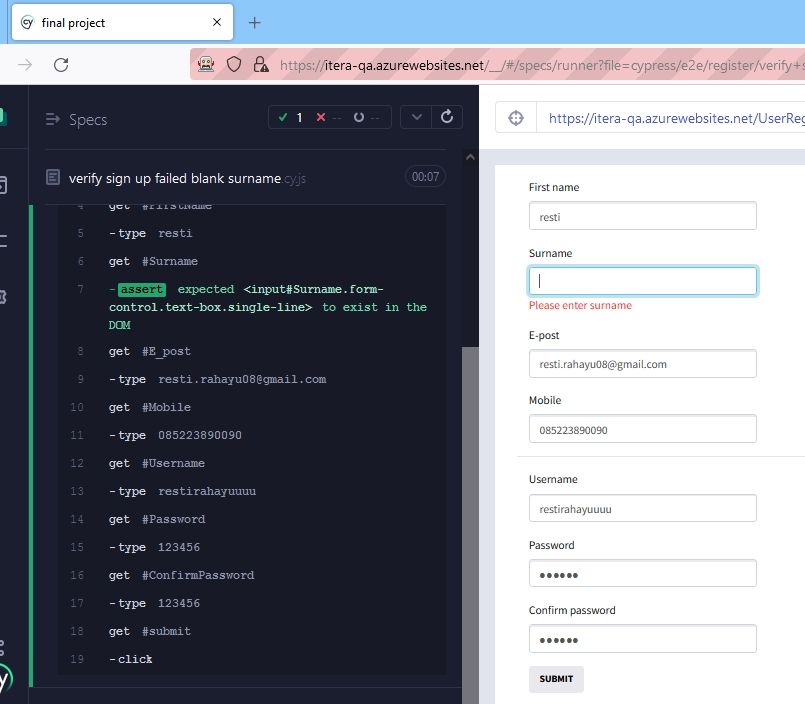
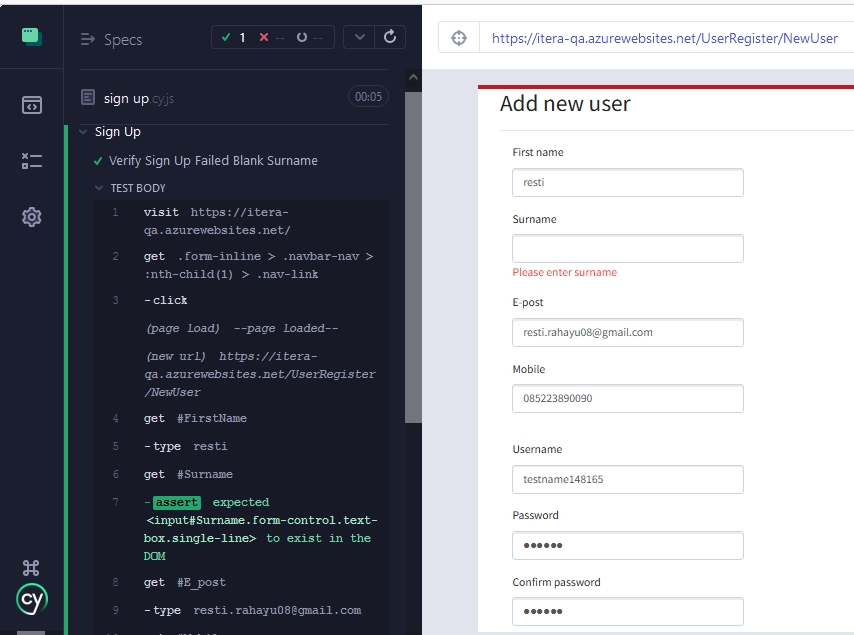
Sign Up

diff --git a/Automation SanberCode_Kelompok09/Sign Up/sign up.cy.js b/Automation SanberCode_Kelompok09/Sign Up/sign up.cy.js
@@ -1,6 +1,6 @@
-describe('Verify Sign Up Successfully', () => {
+describe('Sign Up', () => {
 
-    it('Visits the Itera', () => {
+    it('Verify Sign Up Successfully', () => {
 
       cy.visit('https://itera-qa.azurewebsites.net/')
       cy.get('.form-inline > .navbar-nav > :nth-child(1) > .nav-link').click()
@@ -19,11 +19,7 @@ describe('Verify Sign Up Successfully', () => {
       cy.scrollTo('bottom')
 
     })
-
-  })
-describe('Verify Sign Up Successfully with Enter Button', () => {
-
-    it('Visits the Itera', () => {
+    it('Verify Sign Up Successfully with Enter Button', () => {
 
       cy.visit('https://itera-qa.azurewebsites.net/')
       cy.get('.form-inline > .navbar-nav > :nth-child(1) > .nav-link').click()
@@ -42,11 +38,7 @@ describe('Verify Sign Up Successfully with Enter Button', () => {
       cy.scrollTo('bottom')
 
     })
-
-  })
-describe('Verify Sign Up Failed Same Email', () => {
-
-    it('Visits the Itera', () => {
+    it('Verify Sign Up Failed Same Email', () => {
 
       cy.visit('https://itera-qa.azurewebsites.net/')
       cy.get('.form-inline > .navbar-nav > :nth-child(1) > .nav-link').click()
@@ -65,11 +57,7 @@ describe('Verify Sign Up Failed Same Email', () => {
       cy.scrollTo('bottom')
 
     })
-
-  })
-describe('Verify Sign Up Failed Same Username', () => {
-
-    it('Visits the Itera', () => {
+    it('Verify Sign Up Failed Same Username', () => {
 
       cy.visit('https://itera-qa.azurewebsites.net/')
       cy.get('.form-inline > .navbar-nav > :nth-child(1) > .nav-link').click()
@@ -85,11 +73,7 @@ describe('Verify Sign Up Failed Same Username', () => {
       cy.scrollTo('bottom')
 
     })
-
-  })
-describe('Verify Sign Up Failed Blank Email', () => {
-
-    it('Visits the Itera', () => {
+    it('Verify Sign Up Failed Blank Email', () => {
 
       cy.visit('https://itera-qa.azurewebsites.net/')
       cy.get('.form-inline > .navbar-nav > :nth-child(1) > .nav-link').click()
@@ -108,11 +92,7 @@ describe('Verify Sign Up Failed Blank Email', () => {
       cy.scrollTo('bottom')
 
     })
-
-  })
-describe('Verify Sign Up Failed Blank First Name', () => {
-
-    it('Visits the Itera', () => {
+    it('Verify Sign Up Failed Blank First Name', () => {
       
       cy.visit('https://itera-qa.azurewebsites.net/')
       cy.get('.form-inline > .navbar-nav > :nth-child(1) > .nav-link').click()
@@ -130,11 +110,7 @@ describe('Verify Sign Up Failed Blank First Name', () => {
       cy.scrollTo('top')
 
     })
-
-  })
-describe('Verify Sign Up Failed Blank Surname', () => {
-
-    it('Visits the Itera', () => {
+    it('Verify Sign Up Failed Blank Surname', () => {
       
       cy.visit('https://itera-qa.azurewebsites.net/')
       cy.get('.form-inline > .navbar-nav > :nth-child(1) > .nav-link').click()
@@ -152,11 +128,7 @@ describe('Verify Sign Up Failed Blank Surname', () => {
       cy.scrollTo('top')
 
     })
-
-  })
-describe('Verify Sign Up Failed Blank Mobile', () => {
-
-    it('Visits the Itera', () => {
+    it('Verify Sign Up Failed Blank Mobile', () => {
       
       cy.visit('https://itera-qa.azurewebsites.net/')
       cy.get('.form-inline > .navbar-nav > :nth-child(1) > .nav-link').click()
@@ -175,11 +147,7 @@ describe('Verify Sign Up Failed Blank Mobile', () => {
       cy.scrollTo('bottom')
 
     })
-
-  })
-describe('Verify Sign Up Failed Blank Username', () => {
-
-    it('Visits the Itera', () => {
+    it('Verify Sign Up Failed Blank Username', () => {
       
       cy.visit('https://itera-qa.azurewebsites.net/')
       cy.get('.form-inline > .navbar-nav > :nth-child(1) > .nav-link').click()
@@ -194,11 +162,7 @@ describe('Verify Sign Up Failed Blank Username', () => {
       
 
     })
-
-  })
-describe('Verify Sign Up Failed Blank Password', () => {
-
-    it('Visits the Itera', () => {
+    it('Verify Sign Up Failed Blank Password', () => {
       
       cy.visit('https://itera-qa.azurewebsites.net/')
       cy.get('.form-inline > .navbar-nav > :nth-child(1) > .nav-link').click()
@@ -215,11 +179,7 @@ describe('Verify Sign Up Failed Blank Password', () => {
       cy.get('#submit').click()
 
     })
-
-  })
-describe('Verify Sign Up Failed Blank Confirm Password', () => {
-
-    it('Visits the Itera', () => {
+    it('Verify Sign Up Failed Blank Confirm Password', () => {
       
       cy.visit('https://itera-qa.azurewebsites.net/')
       cy.get('.form-inline > .navbar-nav > :nth-child(1) > .nav-link').click()
@@ -236,11 +196,7 @@ describe('Verify Sign Up Failed Blank Confirm Password', () => {
       cy.get('#submit').click()
 
     })
-
-  })
-describe('Verify Sign Up Failed All Blank', () => {
-
-    it('Visits the Itera', () => {
+    it('Verify Sign Up Failed All Blank', () => {
       
       cy.visit('https://itera-qa.azurewebsites.net/')
       cy.get('.form-inline > .navbar-nav > :nth-child(1) > .nav-link').click()
@@ -254,11 +210,7 @@ describe('Verify Sign Up Failed All Blank', () => {
       cy.get('#submit').click()
 
     })
-
-  })
-describe('Verify Sign Up Failed with Minimum Password', () => {
-
-    it('Visits the Itera', () => {
+    it('Verify Sign Up Failed with Minimum Password', () => {
 
       cy.visit('https://itera-qa.azurewebsites.net/')
       cy.get('.form-inline > .navbar-nav > :nth-child(1) > .nav-link').click()
@@ -277,11 +229,7 @@ describe('Verify Sign Up Failed with Minimum Password', () => {
       cy.scrollTo('bottom')
 
     })
-
-  })
-  describe('Verify Sign Up Failed with Maximum Password', () => {
-
-    it('Visits the Itera', () => {
+    it('Verify Sign Up Failed with Maximum Password', () => {
 
       cy.visit('https://itera-qa.azurewebsites.net/')
       cy.get('.form-inline > .navbar-nav > :nth-child(1) > .nav-link').click()
